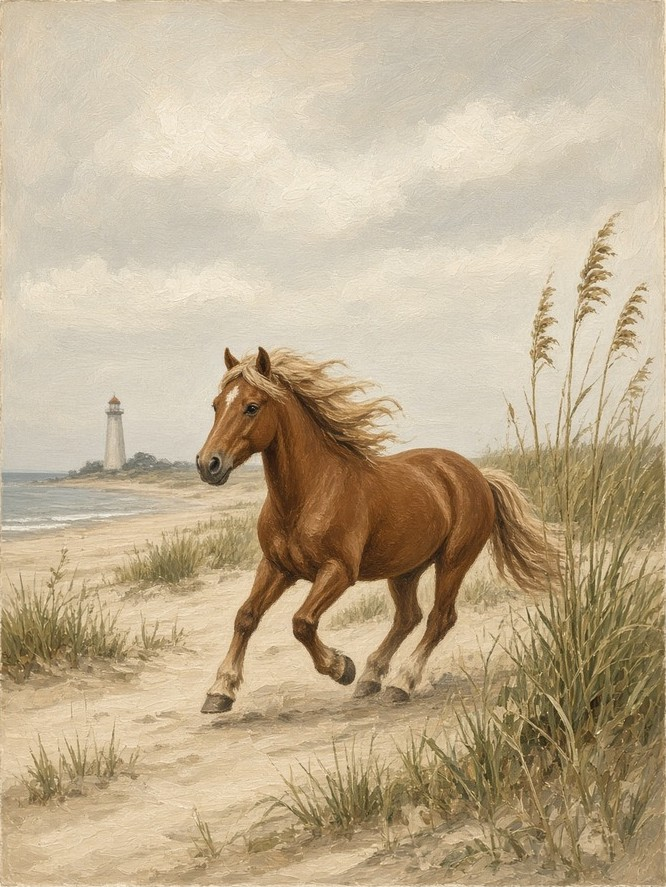
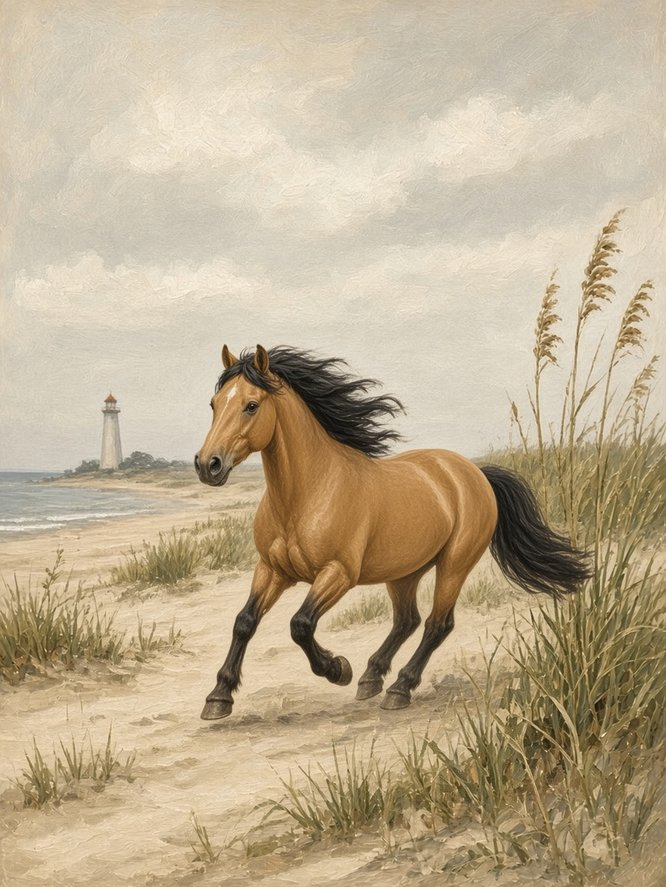
Replace corrected art for 29 Hoofprint cards.
Also bump the photo and app.js cache-busters so the new pictures load.

Changed region(s): [[0.0, 0.2435, 1.0, 1.0], [0.991, 0.0, 1.0, 0.1218], [0.991, 0.1522, 1.0, 0.2131]]

diff --git a/horse-cards/app.js b/horse-cards/app.js
@@ -81,7 +81,7 @@
   }
 
   function artBlock(card) {
-    return '<span class="artwin"><img class="photo" alt="' + esc(card.name) + '" src="photos/' + card.id + '.jpg?v=2026103133"></span>';
+    return '<span class="artwin"><img class="photo" alt="' + esc(card.name) + '" src="photos/' + card.id + '.jpg?v=2026110102"></span>';
   }
 
   function shoeSvg() {

diff --git a/horse-cards/index.html b/horse-cards/index.html
@@ -81,6 +81,6 @@
 </section>
 <footer>© 2026 Dukktape Studios</footer>
 <script src="data.js?v=2026103154"></script>
-<script src="app.js?v=2026110101"></script>
+<script src="app.js?v=2026110102"></script>
 </body>
 </html>
